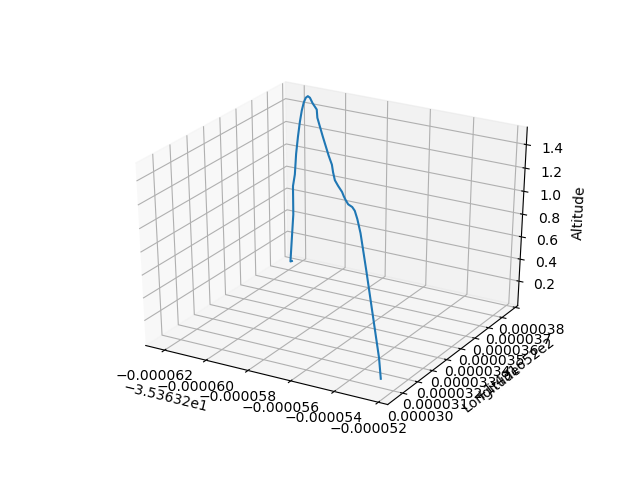
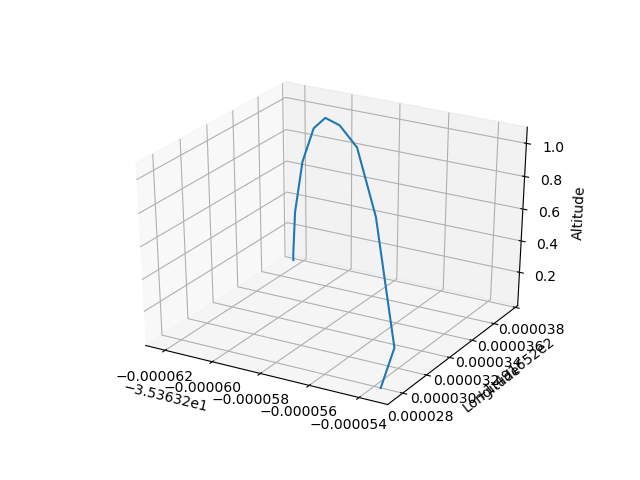
Set lapmer environment

Changed region(s): [[0.1875, 0.1875, 0.875, 0.9062], [0.2188, 0.5, 0.25, 0.5312]]

diff --git a/smckf.py b/smckf.py
@@ -82,7 +82,7 @@ def arm_takeoff(vehicle, altitude, scanning, plotting):
         
         current_altitude = vehicle.location.global_relative_frame.alt
         altitude_error = altitude - current_altitude
-        throttle_value = int(1500 + altitude_error * speed)
+        throttle_value = int(1500 + altitude_error * 30)
         
         # Set the control channel override values
         vehicle.channels.overrides = {
@@ -198,7 +198,7 @@ def landing_disarm(vehicle, scanning, plotting):
         
         current_altitude = vehicle.location.global_relative_frame.alt
         altitude_error = u_alt - current_altitude
-        throttle_value = int(1500 + altitude_error * speed)
+        throttle_value = int(1500 + altitude_error * 35)
         
         vehicle.channels.overrides = {
             '1': int(1500 + u_control[0,0]), 

diff --git a/main.py b/main.py
@@ -24,8 +24,8 @@ baudrates = [
 takeoff_alt = float(input("Takeoff Altitude (m): ") or 1.0)
 trajectory_alt = float(input("Trajectory Altitude (m): ") or 1.5)
 trajectory_distance = float(input("Trajectory Distance (m): ") or 2.0)
-trajectory_duration = float(input("Trajectory Duration Fly (s): ") or 10.0)
-override_speed = float(input("Override Speed (s): ") or 10.0)
+trajectory_duration = float(input("Trajectory Duration Fly (s): ") or 5.0)
+override_speed = float(input("Override Speed (s): ") or 5.0)
 
 is_plotting = input("Plotting Diagram ? [Y/N] : ") or "Y"
 is_scanning = input("Scanning distance altitude with Lidar ? [Y/N] : ") or "Y"
